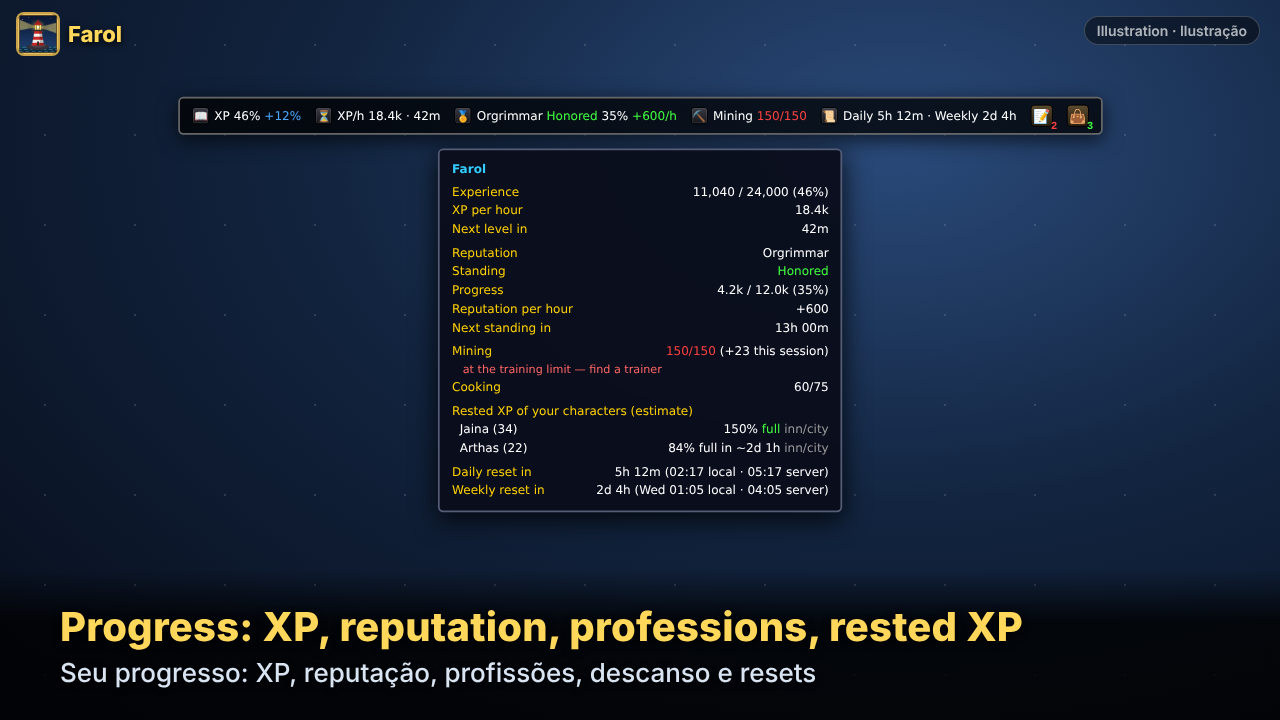
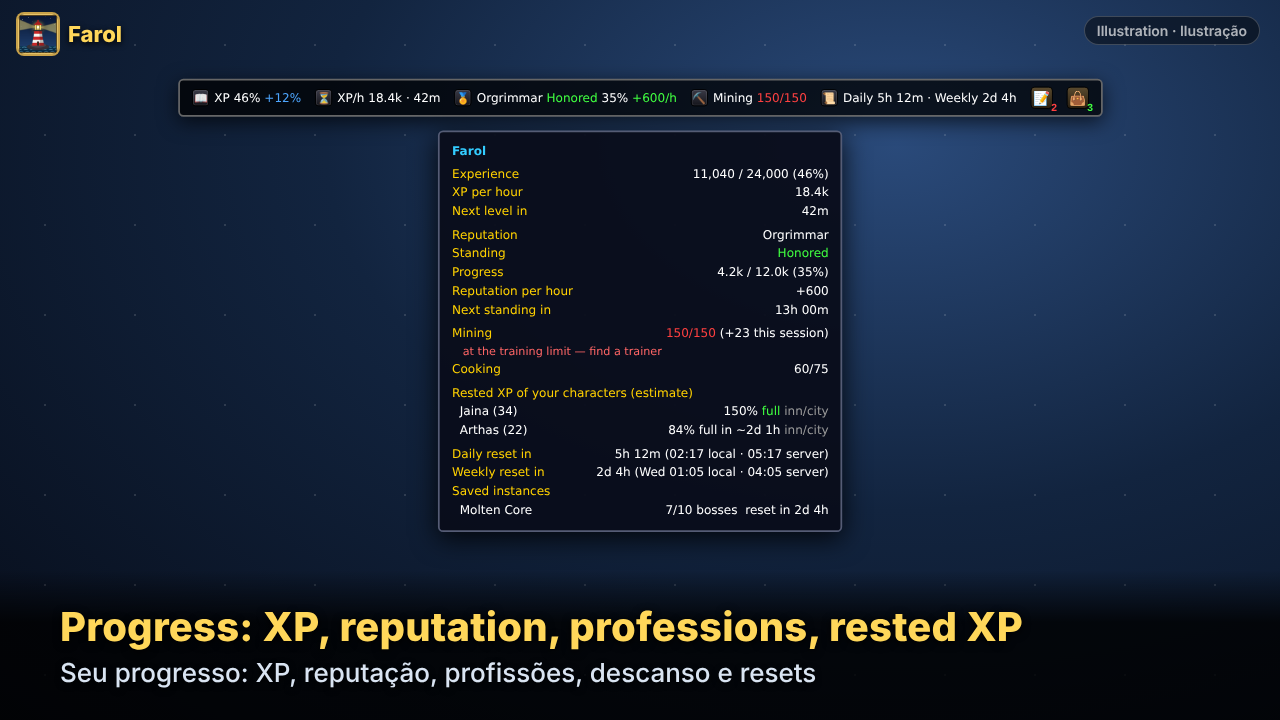
Add saved instances (raid lockouts) for this and your other characters (2.25.0)
- Resets tooltip: saved instances of the current character with bosses killed/total (modern clients)
  and time to reset; "loading..." until the server answers, "none" when not saved.
- Gold tooltip: where your other characters are saved (chars[...].locks, saved on logout and on
  UPDATE_INSTANCE_INFO; expired lockouts disappear by themselves).
- /farol lockouts (instancias); /farol warn status shows the count. News entry added.
- Server request: RequestRaidInfo (same as the Raid window), once at login and at most once a minute
  after that (zone changes and tooltips are rate-limited). README compliance table updated: the add-on
  makes only two read-only, rate-limited requests (guild roster and saved instances).
- Read-only: GetNumSavedInstances/GetSavedInstanceInfo; names/counts/dates validated from the game and
  on load (max 20 per character); fuzz/globals extended; adversarial test 0 problems (5.1/5.4).
- Tests: new test_lockouts.lua (7 tests). READMEs, CurseForge description, CHANGELOG, CLAUDE.md,
  SECURITY.md, illustration 08; version 2.25.0.

Claude-Session: https://claude.ai/code/session_01BGNd8jLBZJw5iNs8DwdX47

Changed region(s): [[0.125, 0.0917, 0.875, 0.7639]]

diff --git a/assets/curseforge/make_pages.py b/assets/curseforge/make_pages.py
@@ -216,7 +216,9 @@ ptip = """<div class="tip" style="width:470px"><div style="color:#33ccff;font-we
 <div class="row"><span>&nbsp; Arthas (22)</span><span>84% full in ~2d 1h <span class="dim">inn/city</span></span></div>
 <div style="height:6px"></div>
 <div class="row"><span class="k">Daily reset in</span><span>5h 12m (02:17 local · 05:17 server)</span></div>
-<div class="row"><span class="k">Weekly reset in</span><span>2d 4h (Wed 01:05 local · 04:05 server)</span></div></div>"""
+<div class="row"><span class="k">Weekly reset in</span><span>2d 4h (Wed 01:05 local · 04:05 server)</span></div>
+<div class="k">Saved instances</div>
+<div class="row"><span>&nbsp; Molten Core</span><span>7/10 bosses &nbsp;reset in 2d 4h</span></div></div>"""
 page("farol-08-progress-xp-reputation-professions", f'<div style="display:flex;flex-direction:column;gap:16px;align-items:center;transform:scale(.86);margin-top:40px">{pbar}{ptip}</div>',
      "Progress: XP, reputation, professions, rested XP", "Seu progresso: XP, reputação, profissões, descanso e resets")
 # 9. Session summary (chat only)

diff --git a/assets/curseforge-description.md b/assets/curseforge-description.md
@@ -14,7 +14,7 @@
 > **Most features start turned off** — right-click the bar (or `/farol menu`) to choose what you want. Hover each item to see what it shows. After an update, Farol lists what is new in your chat, once.
 
 ### Info bar — pick what you see
-FPS · Latency · Memory · Coordinates · Zone · Speed · Durability · Bags · **Junk value (gray items)** · Gold (**+ total and rested XP of all your characters**) · Session gold · **Gold per hour** · XP & rested · **XP per hour & time to level** · **Reputation (standing, progress, rep/hour)** · **Professions (level / training limit)** · Clock (local or server) · **Daily & weekly reset countdown** · Session time · Friends online · Guild online
+FPS · Latency · Memory · Coordinates · Zone · Speed · Durability · Bags · **Junk value (gray items)** · Gold (**+ total and rested XP of all your characters**) · Session gold · **Gold per hour** · XP & rested · **XP per hour & time to level** · **Reputation (standing, progress, rep/hour)** · **Professions (level / training limit)** · Clock (local or server) · **Daily & weekly reset countdown + saved instances (raid lockouts)** · Session time · Friends online · Guild online
 
 - **Right-click** the bar (or `/farol menu`) to tick the items you want, and **choose their order** with [▲]/[▼] arrows.
 - **Hover** the bar for a detailed tooltip: home/world latency, subzone, every damaged item, exact XP, local *and* server time, and more.
@@ -65,7 +65,7 @@ English and Brazilian Portuguese (follows your client, or `/farol lang en|pt`).
 > **A maioria das funções começa desligada** — clique com o botão direito na barra (ou `/farol menu`) para escolher o que quiser. Passe o mouse em cada item para ver o que ele mostra. Depois de uma atualização, o Farol lista as novidades no seu chat, uma vez.
 
 ### Barra de informações — você escolhe o que aparece
-FPS · Latência · Memória · Coordenadas · Zona · Velocidade · Durabilidade · Bolsas · **Valor do lixo (itens cinzentos)** · Ouro (**+ total e descanso de todos os seus personagens**) · Ouro da sessão · **Ouro por hora** · XP e descansado · **XP por hora e tempo até o próximo nível** · **Reputação (nível, progresso, rep/hora)** · **Profissões (nível / limite do treinamento)** · Horário (local ou do servidor) · **Contagem até o reset diário e semanal** · Tempo de sessão · Amigos online · Guilda online
+FPS · Latência · Memória · Coordenadas · Zona · Velocidade · Durabilidade · Bolsas · **Valor do lixo (itens cinzentos)** · Ouro (**+ total e descanso de todos os seus personagens**) · Ouro da sessão · **Ouro por hora** · XP e descansado · **XP por hora e tempo até o próximo nível** · **Reputação (nível, progresso, rep/hora)** · **Profissões (nível / limite do treinamento)** · Horário (local ou do servidor) · **Contagem até o reset diário e semanal + instâncias salvas (bloqueios de raide)** · Tempo de sessão · Amigos online · Guilda online
 
 - **Clique direito** na barra (ou `/farol menu`), marque os itens que quiser e **escolha a ordem** com as setas [▲]/[▼].
 - **Passe o mouse** na barra para ver um tooltip detalhado: latência local/mundo, subzona, cada peça danificada, XP exato, hora local *e* do servidor, e mais.

diff --git a/README.pt-BR.md b/README.pt-BR.md
@@ -36,6 +36,7 @@ saques** e **avisos** (durabilidade, bolsas, talentos não gastos, magias de gra
 | `/farol saque limpar`| Apaga o histórico de saques deste personagem |
 | `/farol sessao zerar`| Recomeça ouro da sessão, ouro/h, XP/h, rep/h e tempo |
 | `/farol novidades`  | Mostra de novo as novidades das últimas versões |
+| `/farol instancias` | Instâncias salvas (bloqueios de raide) deste e dos outros personagens |
 | `/farol resumo`     | Resumo da sessão atual (ouro, XP, reputação, saques, avisos) |
 | `/farol ouro`       | Ouro de todos os seus personagens deste reino |
 | `/farol ouro total on` / `off` | Mostra / esconde o total do reino ao lado do ouro na barra |
@@ -296,6 +297,11 @@ lista todas, incluindo culinária, pesca e primeiros socorros, com os pontos gan
 
 **Resets:** contagem regressiva até o reset **diário** e o **semanal**, com o tempo que o próprio jogo informa. O
 tooltip mostra quando cada um acontece, na hora local e na do servidor. Clientes antigos só informam o diário.
+O tooltip também lista as suas **instâncias salvas** (bloqueios de raide/masmorra) — por exemplo
+`Núcleo Derretido 7/10 chefes, reset em 2d 4h` — e o tooltip do ouro mostra onde os seus **outros personagens** estão
+salvos (guardado ao sair; bloqueios vencidos somem sozinhos). `/farol instancias` lista tudo no seu chat. Para ter a
+lista, o Farol pede ao servidor uma vez ao entrar e, depois, no máximo uma vez por minuto (o mesmo pedido da janela de
+Raide do próprio jogo).
 
 **Tooltip:** passe o mouse no painel para ver todos os detalhes de uma vez — latência local/mundo,
 subzona, cada peça danificada, XP exato e descansado, progresso da reputação, quando acontece o reset diário/semanal,
@@ -384,7 +390,7 @@ Este addon segue a [Política de Desenvolvimento de AddOns da Blizzard](https://
 | Deve ser gratuito | ✅ Gratuito, licença MIT — sem versão paga nem funções pagas |
 | Código visível (sem ofuscação) | ✅ Lua simples e comentado na pasta `Farol` |
 | Sem propaganda ou pedidos de doação | ✅ Nenhum, nem no jogo nem neste repositório |
-| Não pode prejudicar o desempenho do servidor | ✅ O único pedido ao servidor é a lista da guilda, no máximo 1 vez por minuto e só com o item Guilda ligado (o mesmo que a janela de Guilda do jogo faz) |
+| Não pode prejudicar o desempenho do servidor | ✅ Só dois pedidos ao servidor, ambos de leitura e com limite: a lista da guilda (no máximo 1 vez por minuto, só com o item Guilda ligado) e a lista de instâncias salvas (1 vez ao entrar e depois no máximo 1 vez por minuto) — os mesmos pedidos que as janelas de Guilda e de Raide do jogo fazem |
 | Não pode automatizar o jogo | ✅ Usa só a API oficial de addons para **ler e mostrar** informações; nunca lança magias, move, seleciona alvos, compra, vende ou manda mensagens |
 | Deve seguir os Termos de Uso / EULA | ✅ Sem programas externos, sem leitura de memória, sem injeção — não é um `.exe` |
 

diff --git a/README.md b/README.md
@@ -36,6 +36,7 @@ Hover the panel for a detailed tooltip. It also has **clock alarms**, a **recent
 | `/farol loot clear` | Clear this character's loot history |
 | `/farol session reset`| Restart session gold, gold/h, XP/h, rep/h and time |
 | `/farol news`       | Show again what is new in the latest versions |
+| `/farol lockouts`   | Saved instances (raid lockouts) of this and your other characters |
 | `/farol summary`    | Summary of the current session (gold, XP, reputation, loot, warnings) |
 | `/farol gold`       | Gold of all your characters on this realm |
 | `/farol gold total on` / `off` | Show / hide the realm total next to your gold on the bar |
@@ -294,6 +295,10 @@ tooltip lists all of them, including cooking, fishing and first aid, with the po
 
 **Resets:** counts down to the **daily** and **weekly** reset, using the time the game itself reports. The tooltip
 shows when each one happens in local and server time. Older clients only report the daily reset.
+The tooltip also lists your **saved instances** (raid/dungeon lockouts) — e.g. `Molten Core 7/10 bosses, reset in
+2d 4h` — and the gold tooltip shows where your **other characters** are saved (saved when you log out; expired
+lockouts disappear by themselves). `/farol lockouts` lists everything in your chat. To get the list, Farol asks the
+server once at login and at most once a minute after that (the same request as the game's own Raid window).
 
 **Tooltip:** hover the panel to see every detail at once — home/world latency, subzone, each damaged
 item, exact XP and rested, reputation progress, when the daily/weekly reset happens, local *and* server time,
@@ -379,7 +384,7 @@ This addon follows Blizzard's [UI Add-On Development Policy](https://us.forums.b
 | Must be free | ✅ Free, MIT license — no paid version, no paid features |
 | Code must be visible (no obfuscation) | ✅ Plain, commented Lua in the `Farol` folder |
 | No ads or donation requests | ✅ None, in game or in this repository |
-| Must not hurt realm performance | ✅ Only server request is the guild roster, at most once a minute and only if the Guild item is on (the same thing the game's own Guild window does) |
+| Must not hurt realm performance | ✅ Only two server requests, both read-only and rate-limited: the guild roster (at most once a minute, only if the Guild item is on) and the saved-instance list (once at login, then at most once a minute) — the same requests the game's own Guild and Raid windows make |
 | Must not automate gameplay | ✅ Uses only the official addon API to **read and display** information; it never casts, moves, targets, buys, sells or sends chat |
 | Must follow the Terms of Use / EULA | ✅ No external programs, no memory reading, no injection — it is not a `.exe` |
 

diff --git a/CLAUDE.md b/CLAUDE.md
@@ -47,6 +47,11 @@ personalizável, alarmes, janela de saques e avisos. Publicado no CurseForge. Li
 - Descanso de personagens deslogados: o jogo não informa; o Core **estima** (`EstimateRest`) pelas regras do estilo
   clássico — estalagem/cidade (`IsResting` ao sair) 5% do XP do nível a cada 8 h, fora 1/4 disso, máximo 150%.
   Se o WoW Forever usar outras taxas, ajuste `REST_INN_RATE`/`REST_OUT_RATE`.
+- Instâncias salvas: `GetNumSavedInstances`/`GetSavedInstanceInfo` (12º/11º valores = chefes mortos/total nos clientes
+  modernos; o 3.3.5a não tem). A lista só existe depois de `RequestRaidInfo` → evento `UPDATE_INSTANCE_INFO`
+  (`locksLoaded`). Pedido ao servidor: 1 vez no login (`isInitialLogin`) e no máximo 1 vez por minuto
+  (`RequestLockouts`). Guardado em `chars[...].locks = { {n, k, b, r = data do fim} }` (máx. 20), validado ao carregar.
+  São os **dois únicos** pedidos ao servidor do addon (este e a lista da guilda): nunca adicionar outro sem limite.
 - Apelidos de comando (`ITEM_ALIASES`, `KEYS`, `WORDS`) não podem repetir nome: em Lua o segundo sobrescreve o
   primeiro em silêncio. Um teste do `test_toc.lua` confere. Ex.: "descanso" = pausa; XP descansado = "descansado".
 - `PLAYER_ENTERING_WORLD` traz `(isInitialLogin, isReloadingUi)` nos clientes modernos; nos antigos vem sem
@@ -88,7 +93,7 @@ assets/             ícones, texto do CurseForge, imagens de divulgação (asset
 - **Globais:** só nomes começando com `Farol` (janelas/botões), `FarolDB`, `FarolCharDB`, `SLASH_FAROL1`,
   `Farol_ToggleWarnHistory`, `BINDING_*`. Nada de globais genéricos.
 - **Dados salvos:** `FarolDB` (conta: configurações, `items`, `order`, `alarms`, `loot`, `warnings`, `chars` = ouro
-  e nível dos **próprios** personagens por reino — `chars[reino][nome] = { gold, level, t, rest?, max?, inn? }`
+  e nível dos **próprios** personagens por reino — `chars[reino][nome] = { gold, level, t, rest?, max?, inn?, locks? }`
   (descanso: XP descansado, XP do nível e se estava em estalagem/cidade, gravados ao sair), nomes sem `|`/controle
   e até 48 bytes, no máximo 20 reinos × 60 personagens; nunca nomes de outros jogadores) e
   `FarolCharDB` (personagem: `items` = histórico de saques, `warnHistory`, `lastSession` = resumo da última sessão,

diff --git a/SECURITY.md b/SECURITY.md
@@ -25,9 +25,9 @@ e o branch `main` recebem correções.
   nada**: nenhuma mensagem de chat ou de addon.
 - Friends and guild items read **counts only**, never names. / Amigos e guilda: só **quantidades**, nunca nomes.
 - Saved data (`FarolDB`, `FarolCharDB`) holds only settings, alarms, your own loot links, warning texts, the last
-  session summary (numbers) and the gold/level/rested XP of **your own** characters, and is **validated on load**. It never
+  session summary (numbers) and the gold/level/rested XP/saved instances of **your own** characters, and is **validated on load**. It never
   leaves your computer. / Os dados salvos guardam só configurações, alarmes, seus links de saque, textos de avisos,
-  o resumo da última sessão (números) e o ouro/nível/descanso dos **seus próprios** personagens, e são **validados ao
+  o resumo da última sessão (números) e o ouro/nível/descanso/instâncias salvas dos **seus próprios** personagens, e são **validados ao
   carregar**. Nunca saem do seu computador.
 - The add-on never sells, moves, destroys or equips items. / O addon nunca vende, move, destrói ou equipa itens.
 

diff --git a/CHANGELOG.md b/CHANGELOG.md
@@ -2,6 +2,13 @@
 
 All notable changes to Farol. Versions follow the `## Version:` line of the `.toc` files.
 
+## 2.25.0 — Saved instances
+- The Resets tooltip lists your saved instances (raid/dungeon lockouts) with bosses killed and time to reset; the
+  gold tooltip shows where your other characters are saved (saved on logout; expired lockouts disappear).
+- `/farol lockouts` (`/farol instancias`) lists everything; `/farol warn status` shows the count.
+- Reads the game's saved-instance list; asks the server (RequestRaidInfo, like the Raid window) once at login and
+  at most once a minute after that. Saved data validated on load.
+
 ## 2.24.1
 - The list of news after an update shows one item per line (easier to read).
 
